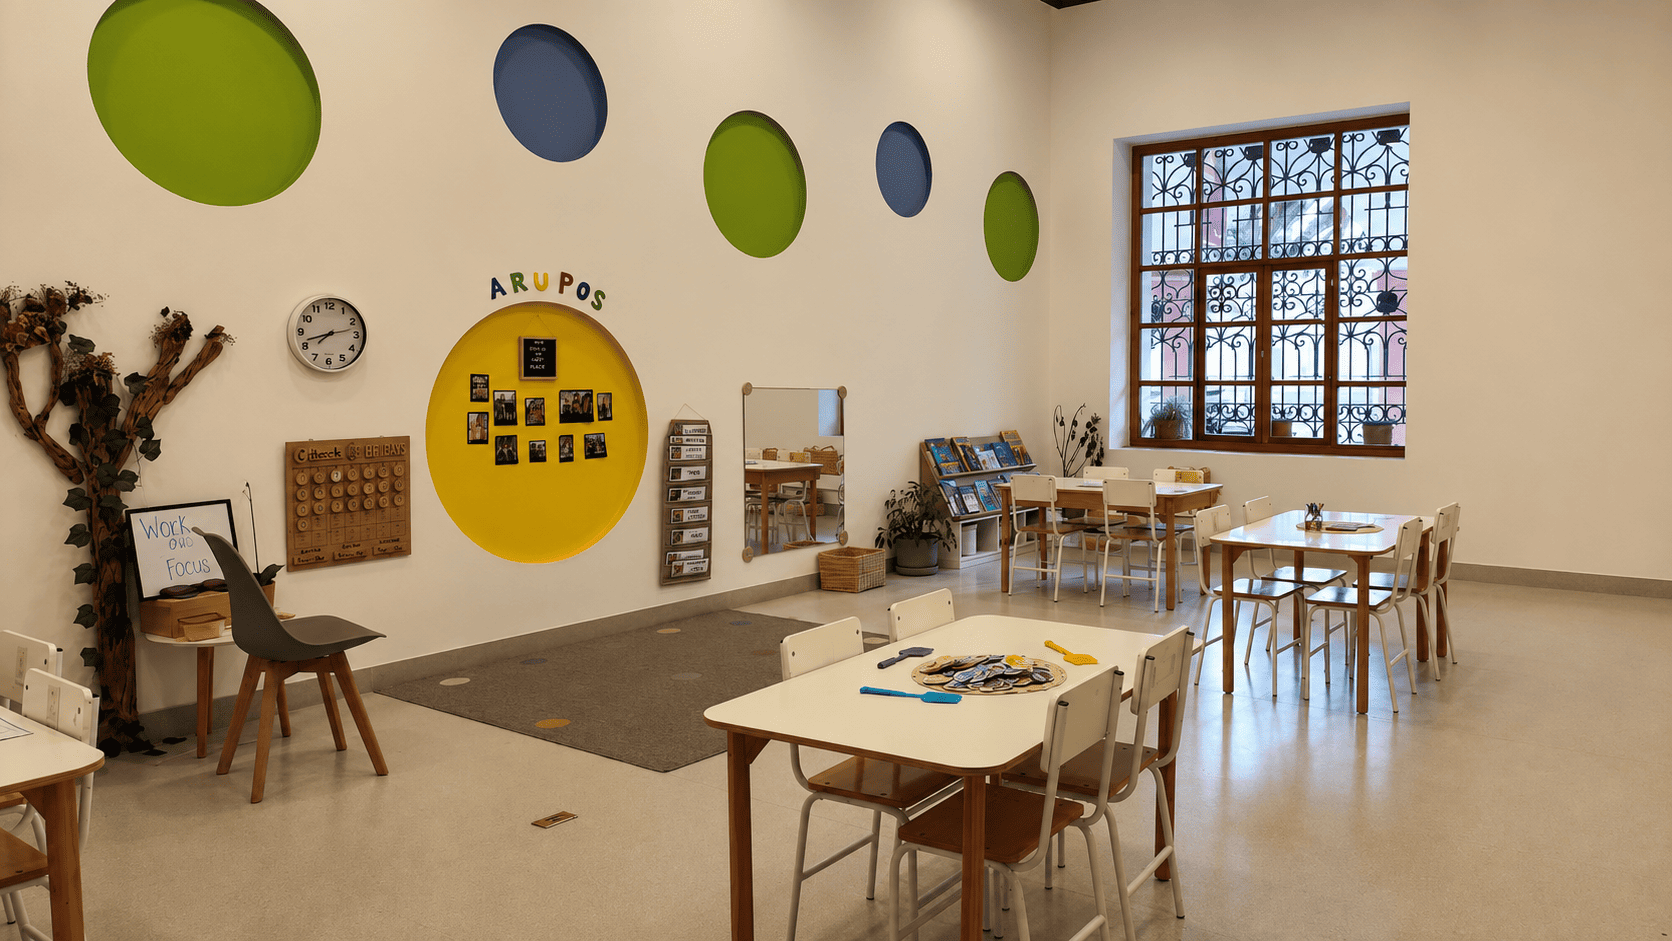
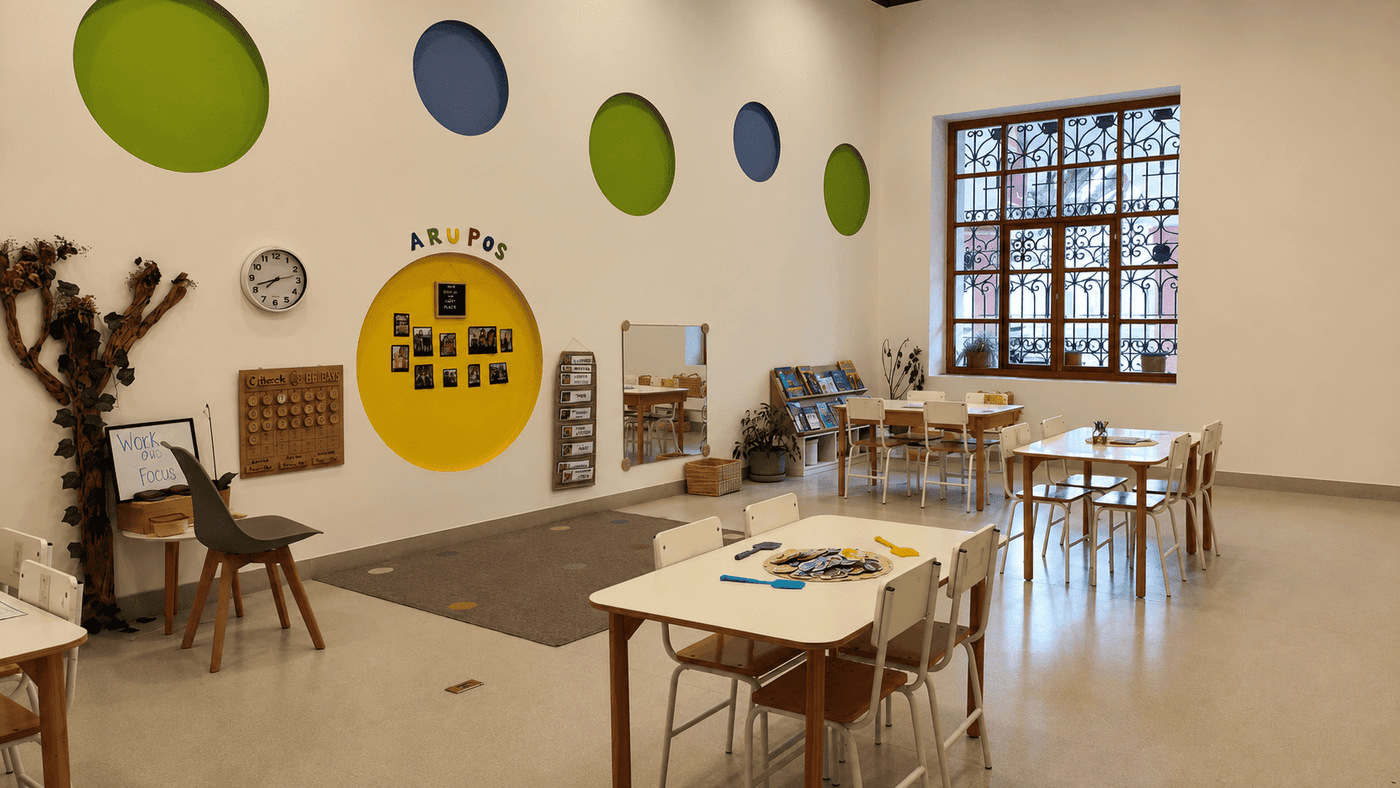
Comprime las fotos pesadas del sitio para acelerar la carga.

diff --git a/src/data/schools.js b/src/data/schools.js
@@ -1,32 +1,32 @@
-import imgPuemboHero from '../assets/sedes/puemboPrincipal.webp'
+import imgPuemboHero from '../assets/sedes/puemboPrincipal.min.webp'
 import imgPuemboLogo from '../assets/logos/puemboB.png'
-import imgPuemboCampus from '../assets/sedes/puemboJardin.webp'
+import imgPuemboCampus from '../assets/sedes/puemboJardin.min.webp'
 import imgIdvLogo from '../assets/logos/idcB.png'
 import imgIdvHero from '../assets/sedes/idv/portadaiv.jpg'
-import imgRedefiniendo from '../assets/home/Redefiniendo.webp'
+import imgRedefiniendo from '../assets/home/Redefiniendo.min.webp'
 import imgIdvSection from '../assets/sedes/idv/idv_seccion.webp'
-import imgIDVC1 from '../assets/sedes/idv/c1.jpg'
-import imgIDVC2 from '../assets/sedes/idv/c2.jpg'
-import imgIDVC3 from '../assets/sedes/idv/c3.png'
-import imgIDVC4 from '../assets/sedes/idv/c4.jpg'
-import imgIDVC5 from '../assets/sedes/idv/c5.png'
-import imgIDVC6 from '../assets/sedes/idv/c6.jpg'
-import imgIDVC7 from '../assets/sedes/idv/c7.jpg'
-import imgIDVC8 from '../assets/sedes/idv/c8.jpg'
-import imgIDVC9 from '../assets/sedes/idv/c9.jpg'
+import imgIDVC1 from '../assets/sedes/idv/c1.min.webp'
+import imgIDVC2 from '../assets/sedes/idv/c2.min.webp'
+import imgIDVC3 from '../assets/sedes/idv/c3.webp'
+import imgIDVC4 from '../assets/sedes/idv/c4.min.webp'
+import imgIDVC5 from '../assets/sedes/idv/c5.webp'
+import imgIDVC6 from '../assets/sedes/idv/c6.min.webp'
+import imgIDVC7 from '../assets/sedes/idv/c7.min.webp'
+import imgIDVC8 from '../assets/sedes/idv/c8.min.webp'
+import imgIDVC9 from '../assets/sedes/idv/c9.min.webp'
 import imgSantaClaraLogo from '../assets/logos/scb.png'
-import imgSantaClaraHero from '../assets/sedes/santac/principalscl.jpg'
-import imgSantaClaraLoc from '../assets/sedes/santac/ubicado.jpg'
-import imgSantaClaraJardin from '../assets/sedes/santac/jardine.png'
+import imgSantaClaraHero from '../assets/sedes/santac/principalscl.min.webp'
+import imgSantaClaraLoc from '../assets/sedes/santac/ubicado.min.webp'
+import imgSantaClaraJardin from '../assets/sedes/santac/jardine.webp'
 import imgSC1 from '../assets/sedes/santac/sc1.jpeg'
 import imgSC2 from '../assets/sedes/santac/sc2.jpeg'
 import imgSC3 from '../assets/sedes/santac/sc3.jpeg'
-import imgSC4 from '../assets/sedes/santac/sc4.png'
+import imgSC4 from '../assets/sedes/santac/sc4.webp'
 import imgSC5 from '../assets/sedes/santac/sc5.jpeg'
-import imgSC6 from '../assets/sedes/santac/sc6.png'
-import imgSC7 from '../assets/sedes/santac/sc7.png'
-import imgSC8 from '../assets/sedes/santac/sc8.png'
-import imgSC9 from '../assets/sedes/santac/sc9.png'
+import imgSC6 from '../assets/sedes/santac/sc6.webp'
+import imgSC7 from '../assets/sedes/santac/sc7.webp'
+import imgSC8 from '../assets/sedes/santac/sc8.webp'
+import imgSC9 from '../assets/sedes/santac/sc9.webp'
 
 import imgIdvResponsabilidad from '../assets/sedes/idv/responsabilidad.png'
 import imgIdvTiempo from '../assets/sedes/idv/tiempo.png'
@@ -34,13 +34,13 @@ import imgIdvDiciplina from '../assets/sedes/idv/diciplina.png'
 import imgIdvCompetencia from '../assets/sedes/idv/competencia.png'
 
 import imgRimacLogo from '../assets/logos/rimacB.png'
-import imgR1 from '../assets/sedes/rimac/r1.jpg'
-import imgR2 from '../assets/sedes/rimac/r2.jpg'
-import imgR3 from '../assets/sedes/rimac/r3.jpg'
-import imgR4 from '../assets/sedes/rimac/r4.jpg'
-import imgR5 from '../assets/sedes/rimac/r5.jpg'
-import imgR6 from '../assets/sedes/rimac/r6.jpg'
-import imgRimacImg from '../assets/sedes/rimac/Rimac.png'
+import imgR1 from '../assets/sedes/rimac/r1.min.webp'
+import imgR2 from '../assets/sedes/rimac/r2.min.webp'
+import imgR3 from '../assets/sedes/rimac/r3.min.webp'
+import imgR4 from '../assets/sedes/rimac/r4.min.webp'
+import imgR5 from '../assets/sedes/rimac/r5.min.webp'
+import imgR6 from '../assets/sedes/rimac/r6.min.webp'
+import imgRimacImg from '../assets/sedes/rimac/Rimac.webp'
 import imgPC1 from '../assets/sedes/puembo/c1.jpeg'
 import imgPC2 from '../assets/sedes/puembo/c2.jpeg'
 import imgPC3 from '../assets/sedes/puembo/c3.jpeg'

diff --git a/src/pages/Home.jsx b/src/pages/Home.jsx
@@ -3,19 +3,18 @@ import { Link } from 'react-router-dom'
 import { Smiley, Logo, Badge } from '../components/Brand.jsx'
 import { SectionHead, ContactForm } from '../components/UI.jsx'
 import SEO from '../components/SEO.jsx'
-import imgSchoolJoy from '../assets/schoolJoy.webp'
-import imgPersonal from '../assets/Home/personalgro.webp'
-import imgAcademic from '../assets/academic.webp'
+import imgSchoolJoy from '../assets/schoolJoy.min.webp'
+import imgPersonal from '../assets/home/personalgro.min.webp'
+import imgAcademic from '../assets/academic.min.webp'
 import imgPuembo from '../assets/Puembo.webp'
 import imgSantaClara from '../assets/Santa Clara.webp'
 import imgRimac from '../assets/Rimac.webp'
 import imgIDV from '../assets/IDV.webp'
-import imgImplementa from '../assets/implementa.webp'
-import imgHero from '../assets/home/Foto principal.webp'
-import imgRedefiniendo from '../assets/home/Redefiniendo.webp'
-import imgformulario from '../assets/home/formulario.webp'
-import imgPuemboJardin from '../assets/sedes/puemboJardin.webp'
-import imgSantaClaraShoot from '../assets/sedes/ReinventEDSantaClaraShoot.webp'
+import imgHero from '../assets/home/Foto principal.min.webp'
+import imgRedefiniendo from '../assets/home/Redefiniendo.min.webp'
+import imgformulario from '../assets/home/formulario.min.webp'
+import imgPuemboJardin from '../assets/sedes/puemboJardin.min.webp'
+import imgSantaClaraShoot from '../assets/sedes/ReinventEDSantaClaraShoot.min.webp'
 import imgBeyond from '../assets/aliados/beyond-education.webp'
 import imgCCR from '../assets/aliados/Center-for-Curriculum-Redesign.webp'
 import imgDevMinds from '../assets/aliados/developing minds.webp'

diff --git a/src/pages/TransformaClub.jsx b/src/pages/TransformaClub.jsx
@@ -2,14 +2,14 @@ import { Link } from 'react-router-dom'
 import { Badge } from '../components/Brand.jsx'
 import { SectionHead, ContactForm, Faq } from '../components/UI.jsx'
 import SEO from '../components/SEO.jsx'
-import imgHero from '../assets/club/club.jpg'
+import imgHero from '../assets/club/club.min.webp'
 import imgClub1 from '../assets/club/club2.jpg'
 import imgClub5 from '../assets/club/club5.jpg'
 import imgClub6 from '../assets/club/club6.jpg'
 import imgClub8 from '../assets/club/club8.jpg'
 import imgClub3 from '../assets/club/club3.jpg'
 import imgIDV from '../assets/sedes/idv/idvPrincipal.webp'
-import imgRimac from '../assets/sedes/rimac/r3.jpg'
+import imgRimac from '../assets/sedes/rimac/r3.min.webp'
 import imgLogoIDV from '../assets/IDV.webp'
 import imgLogoRimac from '../assets/Rimac.webp'
 import './pages.css'

diff --git a/src/pages/Transforma.jsx b/src/pages/Transforma.jsx
@@ -14,9 +14,9 @@ import imgRealWorld from '../assets/habilidades/real world.webp'
 import imgWellbeing from '../assets/habilidades/wellbeing.webp'
 import imgPersonal from '../assets/sistema/progresomeible.jpeg'
 import imgTransformaArt from '../assets/sistema/transforma.png'
-import imgSchoolJoy from '../assets/schoolJoy.webp'
-import imgPersonalGro from '../assets/Home/personalgro.webp'
-import imgAcademic from '../assets/academic.webp'
+import imgSchoolJoy from '../assets/schoolJoy.min.webp'
+import imgPersonalGro from '../assets/home/personalgro.min.webp'
+import imgAcademic from '../assets/academic.min.webp'
 import './pages.css'
 
 const combine = [

diff --git a/src/data/blogs.js b/src/data/blogs.js
@@ -1,10 +1,10 @@
 import imgBlo1 from '../assets/noticias/blo1.jpg'
 import imgBlo2 from '../assets/noticias/blo2.jpg'
-import imgBlo3 from '../assets/noticias/blo3.jpg'
+import imgBlo3 from '../assets/noticias/blo3.min.webp'
 import imgBlo5 from '../assets/noticias/blo5.jpg'
 import imgBlo6 from '../assets/noticias/blo6.jpg'
-import imgBlo7 from '../assets/noticias/blo7.jpg'
-import imgRedefiniendo from '../assets/home/Redefiniendo.webp'
+import imgBlo7 from '../assets/noticias/blo7.min.webp'
+import imgRedefiniendo from '../assets/home/Redefiniendo.min.webp'
 
 export const blogs = [
   {

diff --git a/src/pages/Conocenos.jsx b/src/pages/Conocenos.jsx
@@ -8,7 +8,7 @@ import imgPuembo from '../assets/logos/puemboB.png'
 import imgIDV from '../assets/logos/idcB.png'
 import imgSantaClara from '../assets/logos/scb.png'
 import imgRimac from '../assets/logos/rimacB.png'
-import imgHistoria1 from '../assets/historia/historia1.webp'
+import imgHistoria1 from '../assets/historia/historia1.min.webp'
 import imgLogoSchools from '../assets/historia/logo_schools.webp'
 import './pages.css'
 

diff --git a/src/pages/TransformaColegio.jsx b/src/pages/TransformaColegio.jsx
@@ -2,7 +2,7 @@ import { Link } from 'react-router-dom'
 import { Badge } from '../components/Brand.jsx'
 import { SectionHead, ContactForm } from '../components/UI.jsx'
 import SEO from '../components/SEO.jsx'
-import imgHero from '../assets/implementa/Jardín.png'
+import imgHero from '../assets/implementa/Jardín.min.webp'
 import './pages.css'
 
 const personaliza = [
